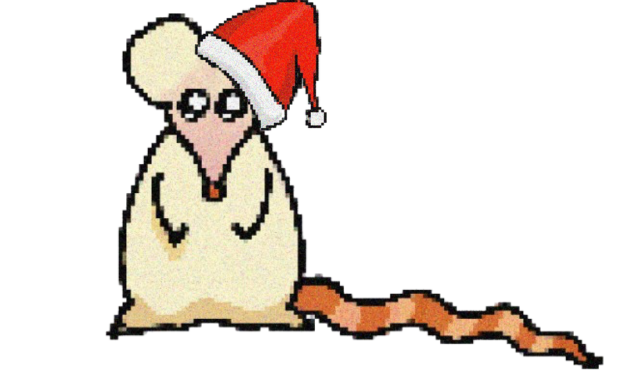
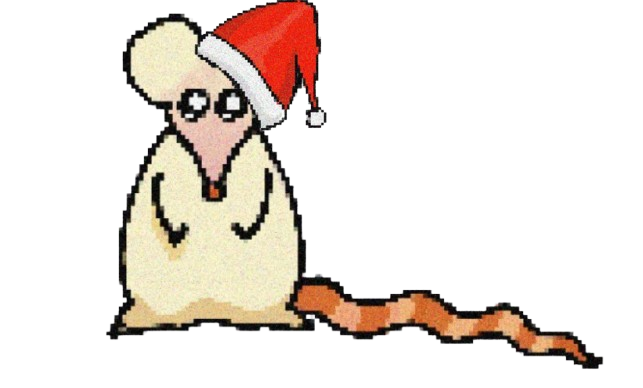
Gave RatParrot a Xmas Hat!

diff --git a/index.html b/index.html
@@ -23,7 +23,7 @@
             
             <main>
                 <section>
-                    <img src="icon-ratparrot.png" alt="RatParrot Logo" class="mascotBig"/>
+                    <img src="icon-ratparrotXmas .png" alt="RatParrot Logo" class="mascotBig"/>
                     <h2>About This Page</h2>
                     <p>This is a hub for free assets and public information.</p>
                 </section>

diff --git a/styles.css b/styles.css
@@ -28,6 +28,7 @@
     right: -20px;
 
 }
+
 .img404 {
 
 
@@ -37,10 +38,13 @@
     font-size: 100px;
     margin-left: 50px;
 }
+
 .mascotBig {
     width: 400px;
     height: auto;
     position: auto;
+    background: transparent;
+    
 }
 
 .mascotAbout:hover {
